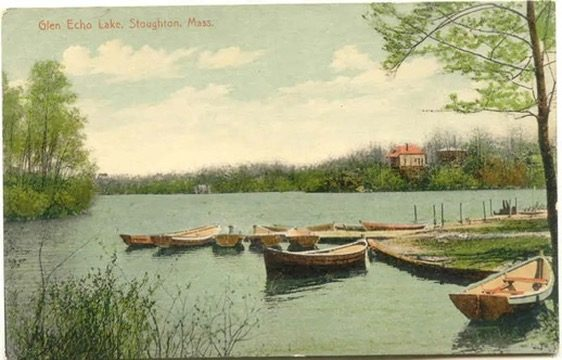
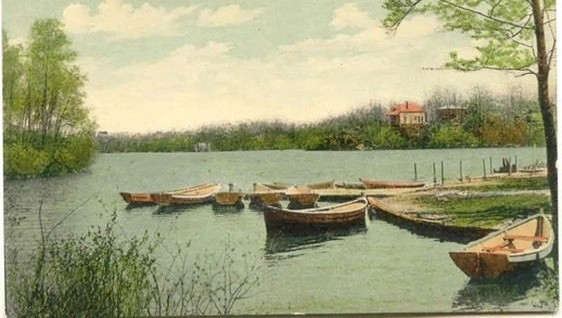
Mask the pond, park and neighboring town names
Refers to the pond without its name, removes the resort owners' names,
the earlier pond name, the trolley origin and the neighboring town from
the history text, crops printed place names off the trolley photograph
and four postcards, and removes an unused park photograph.

Claude-Session: https://claude.ai/code/session_01QoEWSViJ4v36rnGYqZ1QkC

diff --git a/index.html b/index.html
@@ -201,13 +201,13 @@
       </section>
       <!-- Full Width Video -->
       <figure class="full-image">
-        <figcaption style="text-align: center;">Glen Echo Pond – a glacial kettle pond in New England | Video by <a href="https://www.motifmedia.com/" target="_blank" rel="noopener">Motif Media</a></figcaption>
+        <figcaption style="text-align: center;">A glacial kettle pond in New England | Video by <a href="https://www.motifmedia.com/" target="_blank" rel="noopener">Motif Media</a></figcaption>
       </figure>
 
       <!-- Article Body -->
       <div class="article-body article-body--first">
 
-        <p class="lead">Set on eleven acres of wetland forest overlooking Glen Echo Pond in Massachusetts, Echo Pond is a 2,600-square-foot dwelling that synthesizes Scandinavian design sensibility with New England's vernacular building traditions. Designed by Brooklyn-based practice Of Possible and <a href="watch/#build" title="The build, film by film">built by NS Builders</a>, the home stands on a steep slope among glacial boulders, at the edge of protected wetlands.</p>
+        <p class="lead">Set on eleven acres of wetland forest overlooking a glacial kettle pond in Massachusetts, Echo Pond is a 2,600-square-foot dwelling that synthesizes Scandinavian design sensibility with New England's vernacular building traditions. Designed by Brooklyn-based practice Of Possible and <a href="watch/#build" title="The build, film by film">built by NS Builders</a>, the home stands on a steep slope among glacial boulders, at the edge of protected wetlands.</p>
 
 <div style="text-align: center;">
   <hr style="height: 1px; border: 0; border-top: 1px solid #38342f; margin: 1em auto; width: 50%;">
@@ -308,7 +308,7 @@
 
         <p>On the second floor, a large circular opening, from a room the homeowners affectionately call "the birdhouse," looks down into the main living space below, creating a vertical connection between levels that amplifies the sense of openness. <a href="watch/#v-pAcDscvSyCM" title="Roof windows and skylights">Large roof windows</a> in the steep pitch bring natural light into the upstairs bedrooms, tracking the sun across interior surfaces throughout the day. Morning light enters at one angle, afternoon at another, marking the passage of hours and the turning of seasons. At sunrise the sun appears twice: once over the far shore and again in the still water.</p>
 
-        <p><a href="build/#frame" title="Frame">The breezeway connecting the main house to an adjoining studio</a> echoes the connected farmsteads of Northern New England, where a sequence of structures allowed farmers to move from house to barn without venturing into winter storms. Here, the connection is open to weather: a threshold space requiring passage through landscape to move between living and working. Its open sides allow unobstructed views of Glen Echo Pond while the roof provides protection during winter.</p>
+        <p><a href="build/#frame" title="Frame">The breezeway connecting the main house to an adjoining studio</a> echoes the connected farmsteads of Northern New England, where a sequence of structures allowed farmers to move from house to barn without venturing into winter storms. Here, the connection is open to weather: a threshold space requiring passage through landscape to move between living and working. Its open sides allow unobstructed views of the pond while the roof provides protection during winter.</p>
 
       </div>
 
@@ -338,25 +338,25 @@
 
         <h2 id="history">Heritage and Memory</h2>
 
-        <p>The site carries layers of history beyond the glacial. In 1895, Elisha C. Monk bought the land around the pond, then known as York Pond, renamed it <a href="watch/#history" title="Postcards of the pond">Glen Echo</a>, and built a resort with a dance pavilion, bowling alley, bathhouses, and boating. From 1905 a trolley line from Mattapan brought crowds out from Boston. No alcohol was allowed.</p>
+        <p>The site carries layers of history beyond the glacial. In 1895 a local family bought the land around the pond, renamed it, and built <a href="watch/#history" title="Postcards of the pond">a resort</a> with a dance pavilion, bowling alley, bathhouses, and boating. From 1905 a trolley line brought crowds out from Boston. No alcohol was allowed.</p>
 
       </div>
 
       <!-- Historical Images -->
       <div class="image-grid">
         <figure>
-          <img src="media/home/trolley-line-1280.jpg" srcset="media/home/trolley-line-1280.jpg 1280w, media/home/trolley-line-1000.jpg 1000w" sizes="(min-width: 1200px) 1200px, 100vw" width="1280" height="925" alt="Historical photo of an open trolley car full of passengers, its destination board reading Glen Echo Lake" loading="lazy">
-          <figcaption>An open summer car bound for Glen Echo Lake</figcaption>
+          <img src="media/home/trolley-line-1280.jpg" srcset="media/home/trolley-line-1280.jpg 1280w, media/home/trolley-line-1000.jpg 1000w" sizes="(min-width: 1200px) 1200px, 100vw" width="1280" height="740" alt="Historical photo of an open trolley car full of passengers" loading="lazy">
+          <figcaption>An open summer car bound for the pond</figcaption>
         </figure>
         <figure>
-          <img src="media/home/boats-562.jpg" srcset="media/home/boats-562.jpg 562w" sizes="(min-width: 1200px) 1200px, 100vw" width="562" height="360" alt="Historical photo of boats on Glen Echo Pond" loading="lazy">
+          <img src="media/home/boats-562.jpg" srcset="media/home/boats-562.jpg 562w" sizes="(min-width: 1200px) 1200px, 100vw" width="562" height="318" alt="Historical postcard of boats on the pond" loading="lazy">
           <figcaption>Boating on the pond</figcaption>
         </figure>
       </div>
 
       <div class="article-body">
 
-        <p>In the Depression the Monks lost the property to the bank. Lincoln Gibson bought it in 1934, and his family ran it as an inn for decades. The resort closed in the 1970s, and fires in 1988 and 1990 destroyed the last of the inn's buildings. In 2011, the town of Stoughton acquired the adjacent 97-acre property for conservation, creating a seamless landscape between private dwelling and public parkland.</p>
+        <p>In the Depression the family lost the property to the bank. A new owner bought it in 1934, and his family ran it as an inn for decades. The resort closed in the 1970s, and fires in 1988 and 1990 destroyed the last of the inn's buildings. In 2011, the adjacent 97-acre property became public conservation land, creating a seamless landscape between private dwelling and public parkland.</p>
 
         <p>Echo Pond now keeps watch over this recovered commons: a contemporary dwelling overlooking land that has cycled through glacial formation, Victorian leisure, abandonment, and civic reclamation. The layered history is not incidental to the architecture; it is the ground from which the design grows.</p>
 
@@ -365,7 +365,7 @@
       <!-- Full Width Image -->
       <figure class="full-image">
         <img src="media/home/exterior-2000.jpg" srcset="media/home/exterior-2000.jpg 2000w, media/home/exterior-1000.jpg 1000w" sizes="(min-width: 1200px) 1200px, 100vw" width="2000" height="1333" alt="A rendering of Echo Pond, the house-shaped house: megashingle cladding around a glazed opening, with the dining table and the pond beyond" loading="lazy">
-        <figcaption><a href="build/#glass">Andersen liftslide doors</a> open toward Glen Echo Pond | Image by Darc Studio</figcaption>
+        <figcaption><a href="build/#glass">Andersen liftslide doors</a> open toward the pond | Image by Darc Studio</figcaption>
       </figure>
 
       <div class="article-body">

diff --git a/watch/index.html b/watch/index.html
@@ -31,7 +31,7 @@
   <meta property="og:image" content="https://echopond.org/media/share-watch.jpg">
   <meta property="og:image:width" content="1200">
   <meta property="og:image:height" content="630">
-  <meta property="og:image:alt" content="Aerial view of Echo Pond under construction in the woods beside Glen Echo Pond.">
+  <meta property="og:image:alt" content="Aerial view of Echo Pond under construction in the woods beside the pond.">
   <meta name="twitter:card" content="summary_large_image">
   <script type="application/ld+json">
   {
@@ -473,7 +473,7 @@
             <video autoplay muted loop playsinline preload="none" poster="../media/watch/place-sunrise-timelapse-poster.jpg" class="lazy-video">
               <source data-src="../media/watch/place-sunrise-timelapse.mp4" type="video/mp4">
             </video>
-            <figcaption>Sunrise over Glen Echo Pond in time-lapse, April 2026.</figcaption>
+            <figcaption>Sunrise over the pond in time-lapse, April 2026.</figcaption>
           </figure>
           <figure>
             <video autoplay muted loop playsinline preload="none" poster="../media/watch/place-summer-shore-poster.jpg" class="lazy-video">
@@ -520,11 +520,11 @@
 
       <section class="watch-section" id="history">
         <h2>History</h2>
-        <p class="watch-intro watch-intro--section">In the early twentieth century the pond was Glen Echo Park, a summer resort that day visitors reached by trolley. Penny postcards from those years show the pines and water the house looks onto today.</p>
+        <p class="watch-intro watch-intro--section">In the early twentieth century the pond was a summer resort that day visitors reached by trolley. Penny postcards from those years show the pines and water the house looks onto today.</p>
         <div class="moments-grid moments-grid--three moments-grid--cards">
           <figure class="moment">
             <img src="../media/watch/historic-road.jpg" alt="Hand-tinted postcard of a dirt road under tall pines beside the lake" loading="lazy">
-            <figcaption>&ldquo;Road to Glen Echo Park&rdquo;</figcaption>
+            <figcaption>The road to the park</figcaption>
           </figure>
           <figure class="moment">
             <img src="../media/watch/historic-grove.jpg" alt="Postcard of a pine grove with the lake beyond" loading="lazy">
@@ -532,7 +532,7 @@
           </figure>
           <figure class="moment">
             <img src="../media/watch/historic-lake.jpg" alt="Postcard of rowboats drawn up along the lake shore under pines" loading="lazy">
-            <figcaption>&ldquo;Lake at Glen Echo Park&rdquo;</figcaption>
+            <figcaption>The lake</figcaption>
           </figure>
         </div>
       </section>
